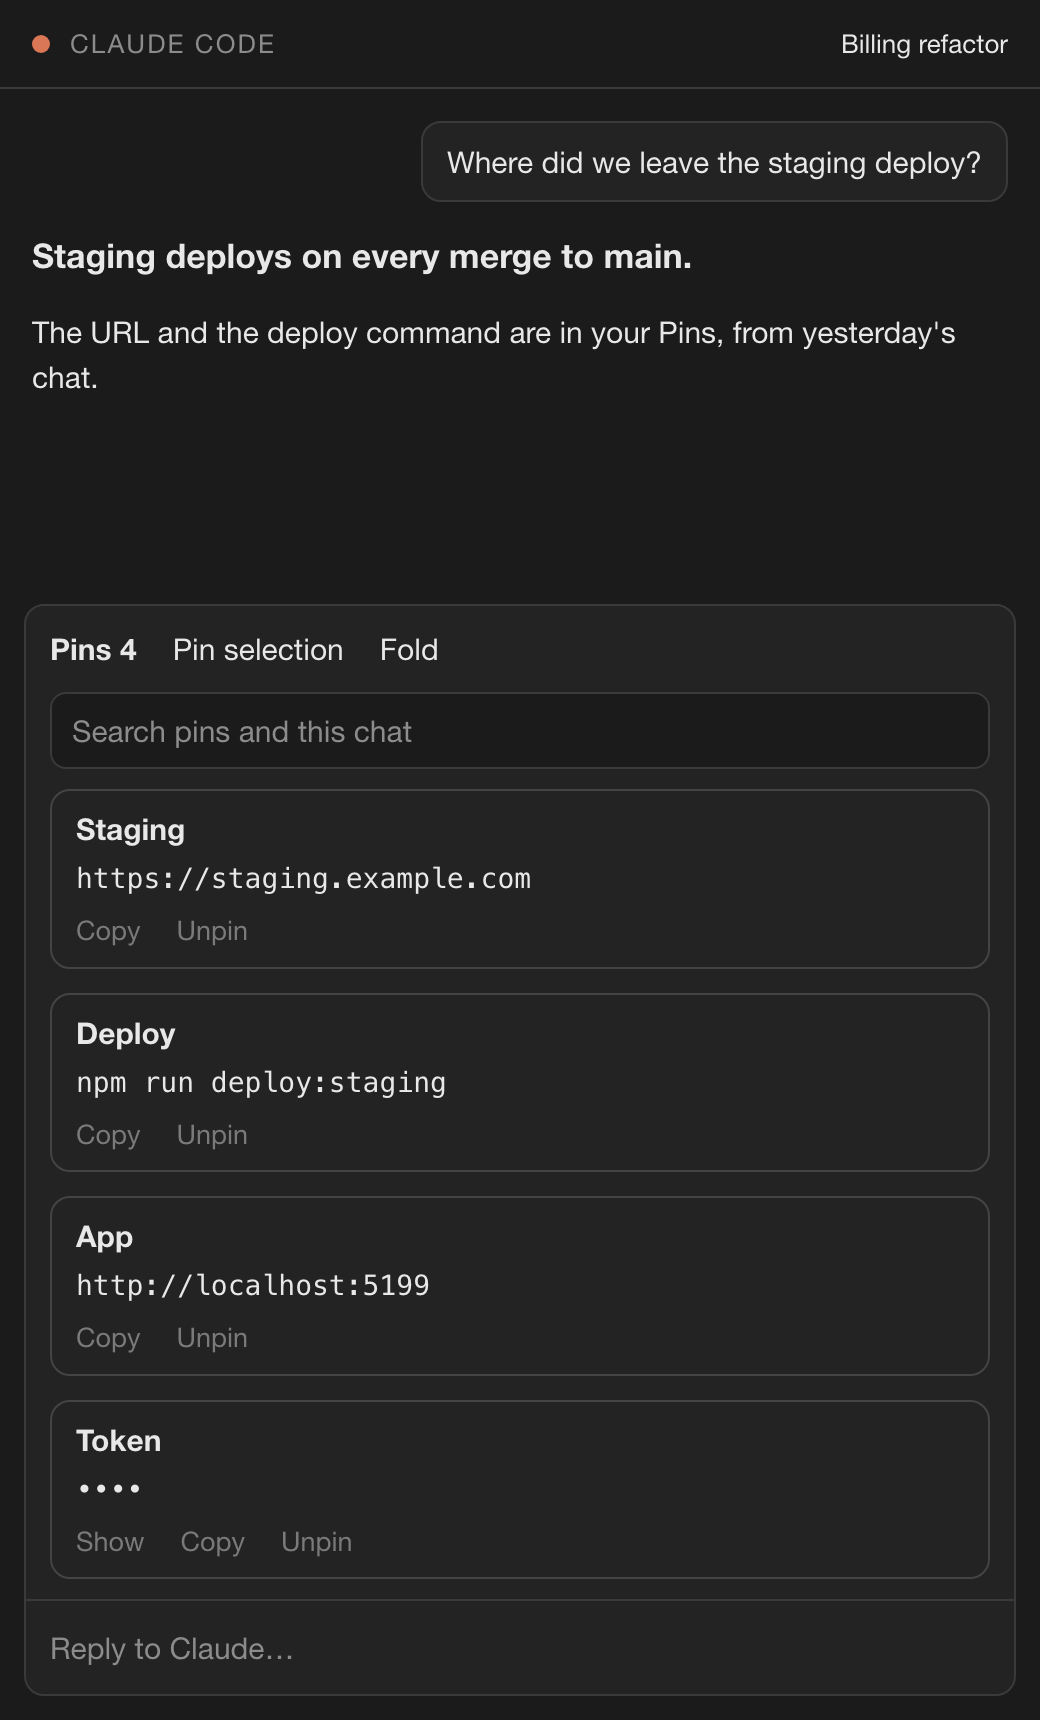
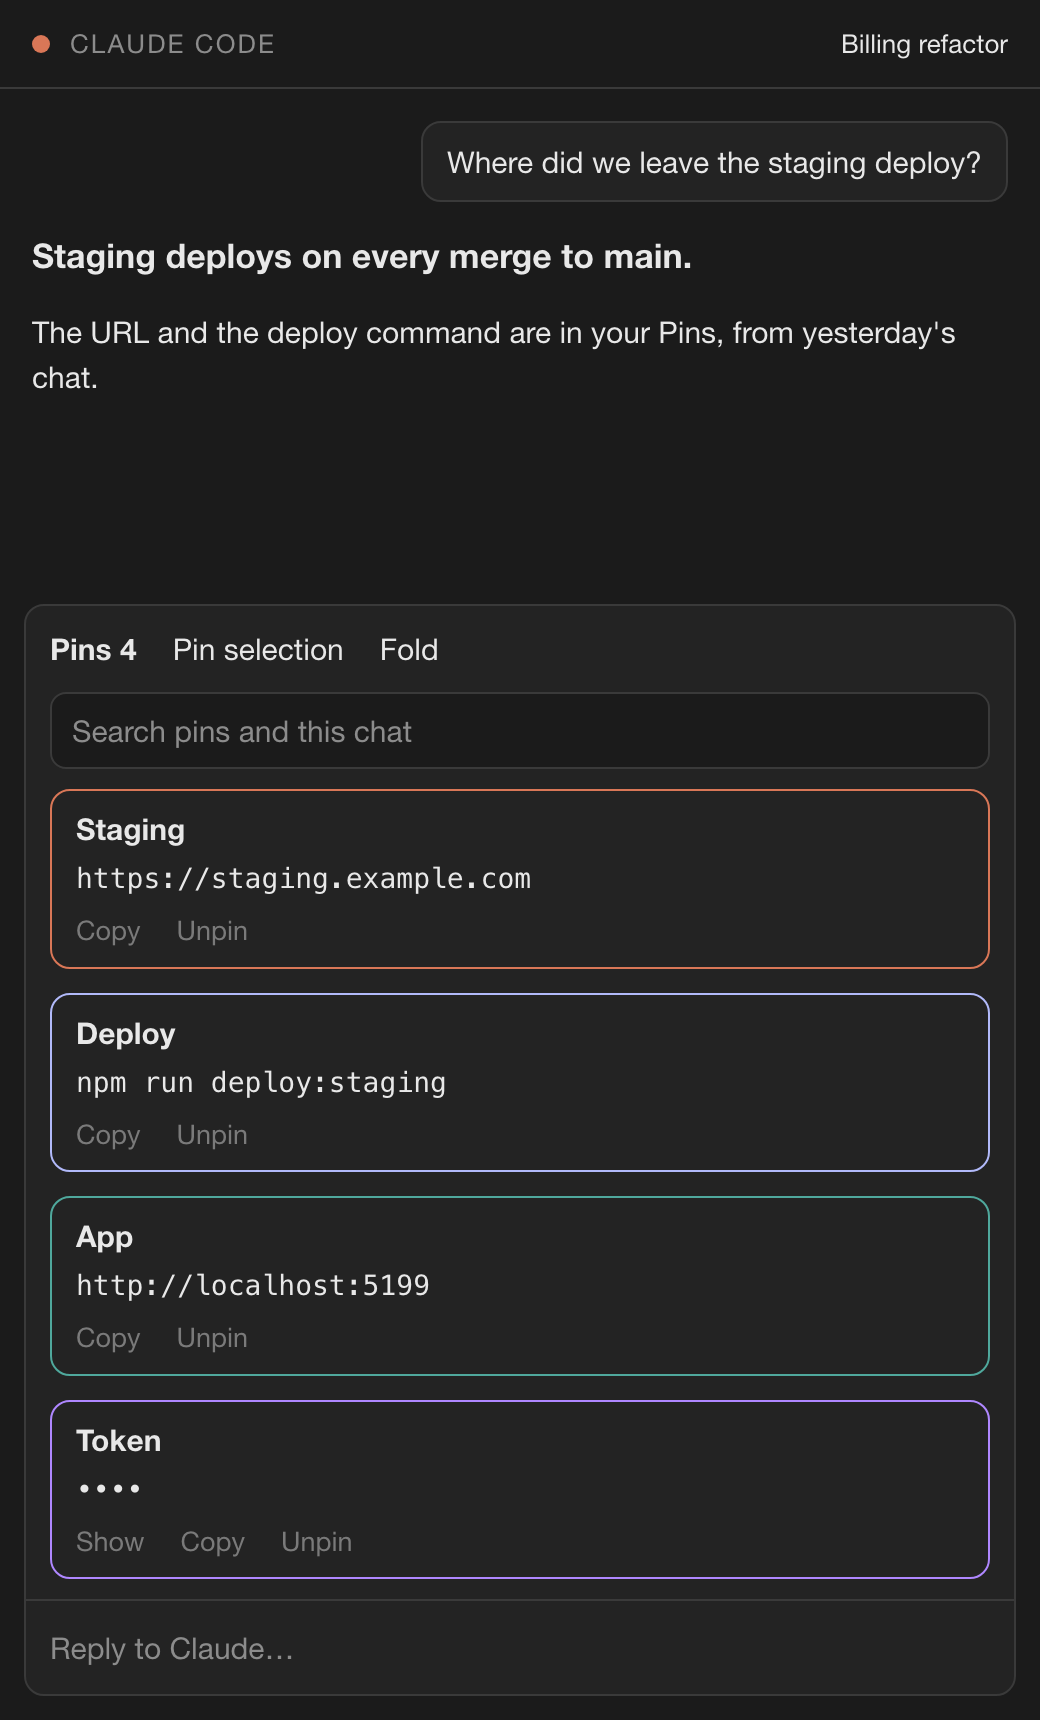
feat: give each pin card its own border color
A pin card's border is one of six theme colors, picked from the pin's
id so it never changes when other pins are added or removed. Search
results keep the gray border. The README drawing shows the colors.

Changed region(s): [[0.9231, 0.5547, 0.9538, 0.5855]]

diff --git a/tests/pane.test.tsx b/tests/pane.test.tsx
@@ -1,5 +1,6 @@
 import { expect, test } from 'claude-code/testing'
 
+import { PIN_COLORS, pinColor } from '../hooks/pane'
 import { storeKey } from '../hooks/pins'
 import type { MarginPin } from '../types'
 import { type Fake, fakeEngine, PROJECT, startSession } from './kit'
@@ -104,6 +105,28 @@ test('the cards sit apart, and no pin says when it goes', async ($, on) => {
   await ui.unmount()
 })
 
+test('each pin card has its own border color, fixed by its id', async ($, on) => {
+  const fake = fakeEngine(on)
+  seed(fake)
+  await startSession($)
+  const ui = await $.ui.mount({ ...PANE, surface: 'vscode' })
+  await ui.press({ key: 'open' })
+  const drawn = walk(await ui.drawn())
+  const colors = ['app', 'token', 'note'].map(id => drawn.find(node => keyOf(node) === `pin-${id}`)?.props?.borderColor)
+  expect(colors).toEqual(['app', 'token', 'note'].map(pinColor))
+  expect(new Set(colors).size).toBeGreaterThan(1)
+  await ui.unmount()
+})
+
+test('pinColor always gives a palette color, the same one for the same id', () => {
+  const ids = Array.from({ length: 50 }, (_, index) => `mh${index.toString(36)}-${index}`)
+  expect(ids.every(id => PIN_COLORS.includes(pinColor(id)))).toBe(true)
+  expect(ids.map(pinColor)).toEqual(ids.map(pinColor))
+  expect(new Set(ids.map(pinColor)).size).toBe(PIN_COLORS.length)
+  expect(PIN_COLORS).not.toContain('success')
+  expect(PIN_COLORS).not.toContain('error')
+})
+
 test('every action is a quiet text control', async ($, on) => {
   const fake = fakeEngine(on)
   seed(fake)
@@ -135,7 +158,7 @@ test('a search hit is a bordered card with a quiet Copy', async ($, on) => {
   await ui.press({ key: 'open' })
   await ui.input({ key: 'q', text: 'staging', kind: 'change' })
   const card = walk(await ui.drawn()).find(node => keyOf(node) === 'hit-card-0')
-  expect(card?.props).toMatchObject({ flexDirection: 'column', borderStyle: 'round', paddingX: 1 })
+  expect(card?.props).toMatchObject({ flexDirection: 'column', borderStyle: 'round', borderColor: 'subtle', paddingX: 1 })
   expect((await ui.find({ key: 'hit-0' }))?.props).toMatchObject({ plain: true, dimColor: true })
   await ui.unmount()
 })

diff --git a/hooks/pane.tsx b/hooks/pane.tsx
@@ -16,6 +16,16 @@ const dropPin = (pins: MarginPin[], id: string): MarginPin[] => pins.filter(pin 
 
 export const PICK_FIRST = 'Select text in the chat first, then press Pin selection.'
 
+// Theme keys, so a card follows the person's theme. Green belongs to the reply's Keep card and red reads as a failure.
+export const PIN_COLORS = ['claude', 'suggestion', 'planMode', 'autoAccept', 'warning', 'ide'] as const
+
+// A pin keeps its color for good: it comes from the id, not the card's place in the list.
+export const pinColor = (id: string): (typeof PIN_COLORS)[number] => {
+  let hash = 0
+  for (const char of id) hash = (hash * 31 + char.charCodeAt(0)) >>> 0
+  return PIN_COLORS[hash % PIN_COLORS.length] ?? 'claude'
+}
+
 export const registerPane = (on: On): void => {
   on('ui.render', { component: 'Pane', requestId: PANE }, async ($, e) => {
     const elements = $.ui.resolve(e)
@@ -84,7 +94,7 @@ export const registerPane = (on: On): void => {
                   {pins.map(pin => {
                     const isHidden = pin.secret && !revealed.includes(pin.id)
                     return (
-                      <Box key={`pin-${pin.id}`} flexDirection="column" alignItems="flex-start" borderStyle="round" borderColor="subtle" paddingX={1}>
+                      <Box key={`pin-${pin.id}`} flexDirection="column" alignItems="flex-start" borderStyle="round" borderColor={pinColor(pin.id)} paddingX={1}>
                         <Text weight="semibold">{pin.label}</Text>
                         <Text mono>{isHidden ? '••••' : pin.value}</Text>
                         <Box flexDirection="row" gap={2}>

diff --git a/docs/margin.md b/docs/margin.md
@@ -15,7 +15,7 @@ Current truth for the `margin` mod. The design and its history: [the spec](super
 | `hooks/secrets.ts` | Known key formats plus long high-entropy tokens; a word with two or more `/` is a path, not a token. |
 | `hooks/pins.ts` | Pin rules and the store. Key `pins:<project folder>`. The store is the source of truth on every save. Pins saved by earlier versions with a numeric `expiresAt` (auto-pins nobody kept) are dropped when read; the rest lose the field on the next save. |
 | `hooks/turn.ts` | On `turn.complete` of the main thread: remembers the reply's keep items as `lastKeep` for `/pin` alone. It pins nothing and opens nothing. |
-| `hooks/pane.tsx` | The Pins tab (`margin-pins`). The search box sits in a `width="100%"` column Box that stretches it, since an Input takes no width of its own and a Box lays its children in a row by default. Each pin and search hit is a card with a round subtle border, in a column with an `lg` gap: the label, the value, then a row of plain dim text buttons (Show on a hidden secret, Copy, Unpin). **Pin selection** in the header pins the selection. |
+| `hooks/pane.tsx` | The Pins tab (`margin-pins`). The search box sits in a `width="100%"` column Box that stretches it, since an Input takes no width of its own and a Box lays its children in a row by default. Each pin and search hit is a card with a round border, in a column with an `lg` gap. A pin card's border color is `pinColor(id)`: the id hashed to one of six theme keys (`PIN_COLORS`: `claude`, `suggestion`, `planMode`, `autoAccept`, `warning`, `ide`), so a pin keeps its color for good; a search hit's border is `subtle`. Each card holds the label, the value, then a row of plain dim text buttons (Show on a hidden secret, Copy, Unpin). **Pin selection** in the header pins the selection. |
 | `hooks/search.ts` | Pins first, then this chat newest first, 20 results. Only messages with text are numbered (tool-result rows are skipped), and a word that looks like a key shows as `••••` (Copy keeps the raw line). |
 | `hooks/commands.ts` | `/pin` (pins, then opens the Pins tab as it was, folded or open) and `/margin`. `/pin` alone pins the mouse selection first, and the last reply's keep items only when nothing is selected. |
 | `hooks/settings.ts` | `/margin off` and `on`, store key `settings`. |

diff --git a/README.md b/README.md
@@ -25,7 +25,7 @@ No account, no server, no network access. It runs inside Claude Code and never w
 
 <p align="center">
   <img src="docs/images/reply-vscode.png" alt="A reply drawn by margin in the VS Code side panel: the green Keep card with Copy and Pin, the answer first and short paragraphs" width="49%">
-  <img src="docs/images/pins.png" alt="The open Pins tab: a full-width search box and each pin as a bordered card with quiet Copy and Unpin" width="49%">
+  <img src="docs/images/pins.png" alt="The open Pins tab: a full-width search box and each pin as a card bordered in its own color, with quiet Copy and Unpin" width="49%">
 </p>
 
 <p align="center">
@@ -119,7 +119,7 @@ claude --plugin-dir margin-claude-mod
 
 **The Keep card.** A green card at the top of a finished reply, one row per item, each with quiet **Copy** and **Pin** buttons. Pin adds the item to your Pins, and the row then says `Pinned`. It's drawn only once the reply's `keep` block has closed, so you never see half a card while Claude is still writing.
 
-**The Pins tab.** It sits above the prompt, folded to one row with a count, and only opens when you open it. Open, it has a full-width search box and each pin as a bordered card with space around it: the label, the value under it, then quiet **Copy** and **Unpin** buttons that stay out of the way. Values that look like keys show as `••••` until you click **Show**. Select text in the chat and press **Pin selection** to pin it as a note.
+**The Pins tab.** It sits above the prompt, folded to one row with a count, and only opens when you open it. Open, it has a full-width search box and each pin as a card with space around it and a border in its own color, which it keeps for good: the label, the value under it, then quiet **Copy** and **Unpin** buttons that stay out of the way. Values that look like keys show as `••••` until you click **Show**. Select text in the chat and press **Pin selection** to pin it as a note.
 
 **Search.** Type in the Pins tab to search your pins and every message in the current chat, newest first. Each hit is a card that says where it came from (`pin`, `reply 14`, `you 3`), with **Copy** for the whole line.
 

diff --git a/docs/superpowers/specs/2026-10-27-pin-card-colors-design.md b/docs/superpowers/specs/2026-10-27-pin-card-colors-design.md
@@ -1,0 +1,29 @@
+# Pin card colors
+
+**Status:** Implemented (2026-10-27)
+
+Every pin card had the same gray border, so a long list still read as one block. Each pin card now has its own
+border color, and a pin keeps that color for good.
+
+## Design
+
+- **Palette.** Six theme keys, so the colors follow the person's theme on every surface: `claude`, `suggestion`,
+  `planMode`, `autoAccept`, `warning`, `ide`. `success` is left out (the reply's Keep card is green) and so is
+  `error` (it reads as a failure).
+- **Fixed per pin.** `pinColor(id)` hashes the pin's id to one palette entry. Adding, removing or reordering pins
+  never repaints another card. Two pins next to each other can share a color.
+- **Search hits** keep the `subtle` border, so a result never looks like a pin.
+
+## Not changing
+
+The card layout, the buttons, the gap between cards.
+
+## Testing
+
+`tests/pane.test.tsx`: each pin card's `borderColor` is `pinColor(pin.id)`; `pinColor` always returns a palette
+color and the same color for the same id; the three seeded pins don't all share one color; search hit cards stay
+`subtle`.
+
+## As built
+
+None.

diff --git a/CHANGELOG.md b/CHANGELOG.md
@@ -2,6 +2,7 @@
 
 ## Unreleased
 
+- Each pin card has its own border color from your theme, and a pin keeps its color for good. Search results stay gray.
 - Only pins you choose. A reply's keep items are offered on its Keep card with **Pin**; nothing is pinned and the Pins tab never opens on its own. Pins no longer expire, so `Goes in Nh` and **Keep** are gone. Old auto-pins nobody kept are dropped.
 - Pins are bordered cards with space between them: the label, the value, then quiet text buttons (Copy, Unpin).
 - The Keep card's Copy and Pin are quiet text buttons too.
